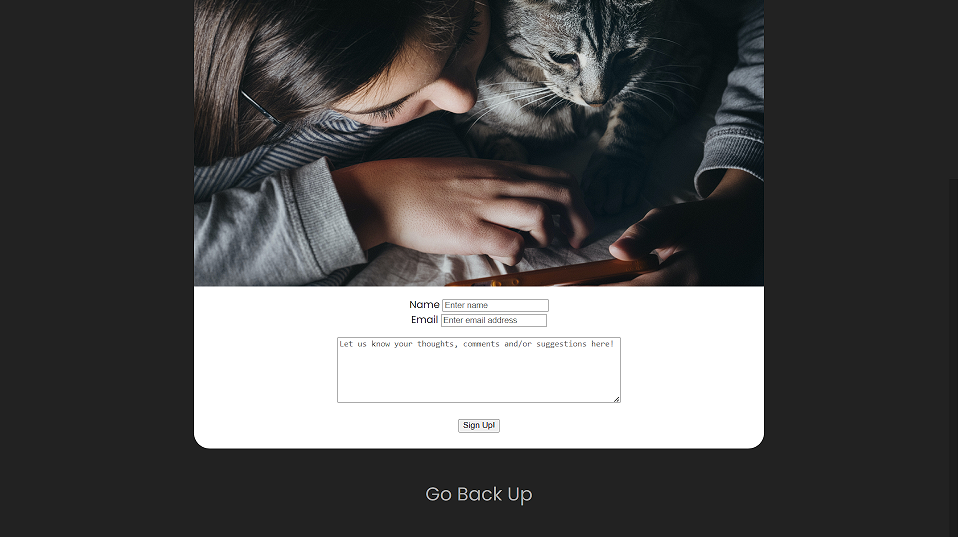
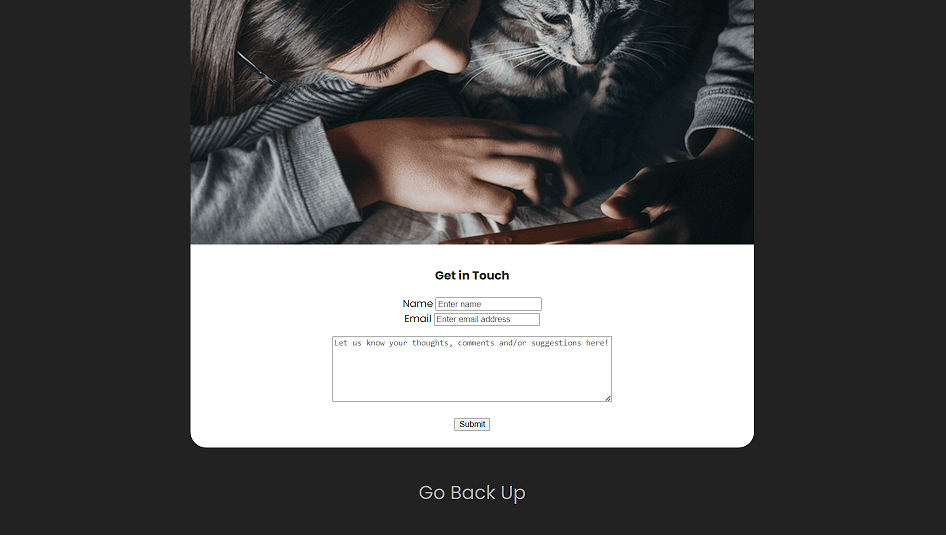
amended typos in readme and updated feedback page preview images

Changed region(s): [[0.1839, 0.0, 0.797, 0.6579], [0.1839, 0.7477, 0.797, 0.8374], [0.4292, 0.8972, 0.5518, 0.957]]

diff --git a/README.md b/README.md
@@ -146,11 +146,11 @@ I have used a black and grey colour scheme in keeping with the hero image, to re
 | Navigation bar links | When the user clicks on a navigation link in the nav bar, they will be taken to that named page. | Clicked on Home, About Us page and Give Feedback page respectively. | Directed to the correct page each time. |
 | Navigation bar hover | When the user hovers over a link in the nav bar, it will change to a lighter colour. | Hovered over each clickable link on each page. | Each clickable link changed to a lighter colour when hovered over. |
 | Footer link | When the 'Go Back Up' link is clicked, the user will be taken to the top of the page. | Clicked on 'Go Back Up' link on each page. | The user is taken to the top of the page each time the footer link is clicked. |
-| Footer hover | When the user hovers over the footer link, it will change to a lighter colour. | Hovered over the footer link on each page. | The footer link chagned to a lighter colour when hovered over on each page. |
+| Footer hover | When the user hovers over the footer link, it will change to a lighter colour. | Hovered over the footer link on each page. | The footer link changed to a lighter colour when hovered over on each page. |
 | Quiz answer selection | When an answer is selected, the score updates and the next question is shown. | Answered all ten questions in the quiz. | Each time a question was answered, the next question would appear and hide the previous question, and the score would increment by 1 if correct. |
 | Quiz completion | When all the questions have been answered, the user receives a response based on the amount answered correctly. | Answered all questions in the quiz, getting one question right, six questions right and nine questions right respectively. | The appropriate result quote was relayed each time based on the amount of questions answered correctly. |
-| Feedback form | You are able to fill in the form and submit. | Filled in the feedback form with text and cliked on Submit. | The information was submitted. |
-| Social media icons | Clicking on each icon will take you to the respective social media site. | Clicked on each icon. | The user is successfully directed to the appropriate site by clikcing on the correlating icon. | 
+| Feedback form | You are able to fill in the form and submit. | Filled in the feedback form with text and clicked on Submit. | The information was submitted. |
+| Social media icons | Clicking on each icon will take you to the respective social media site. | Clicked on each icon. | The user is successfully directed to the appropriate site by clicking on the correlating icon. | 
 
 ## Testing User Stories
 
@@ -220,7 +220,7 @@ I have used a black and grey colour scheme in keeping with the hero image, to re
 ## Debugging
 
 * CSS Validator initally returned errors with an unclosed div tag and unnecessary closing break tag. I added the additional div and removed the closing break tag, re-ran the validator test, and all was returned OK.
-* Running Lighthouse revealed there were some issues causing slow-down of the site rendering. I moved the script tag from the head in the HTML down to just before the closing body tag and this improved the performance immensely.
+* Running Lighthouse initially revealed there were some issues causing slow-down of the site rendering. I moved the script tag from the head in the HTML down to just before the closing body tag and this improved the performance immensely.
 
 ## Credit
 
